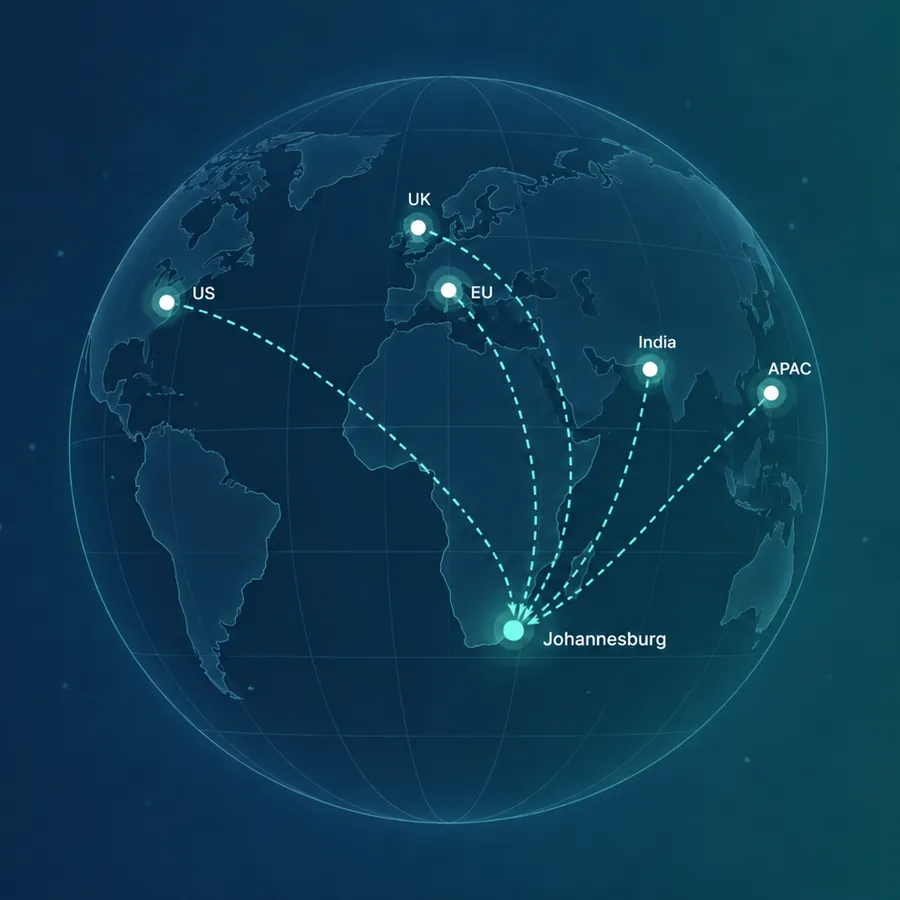
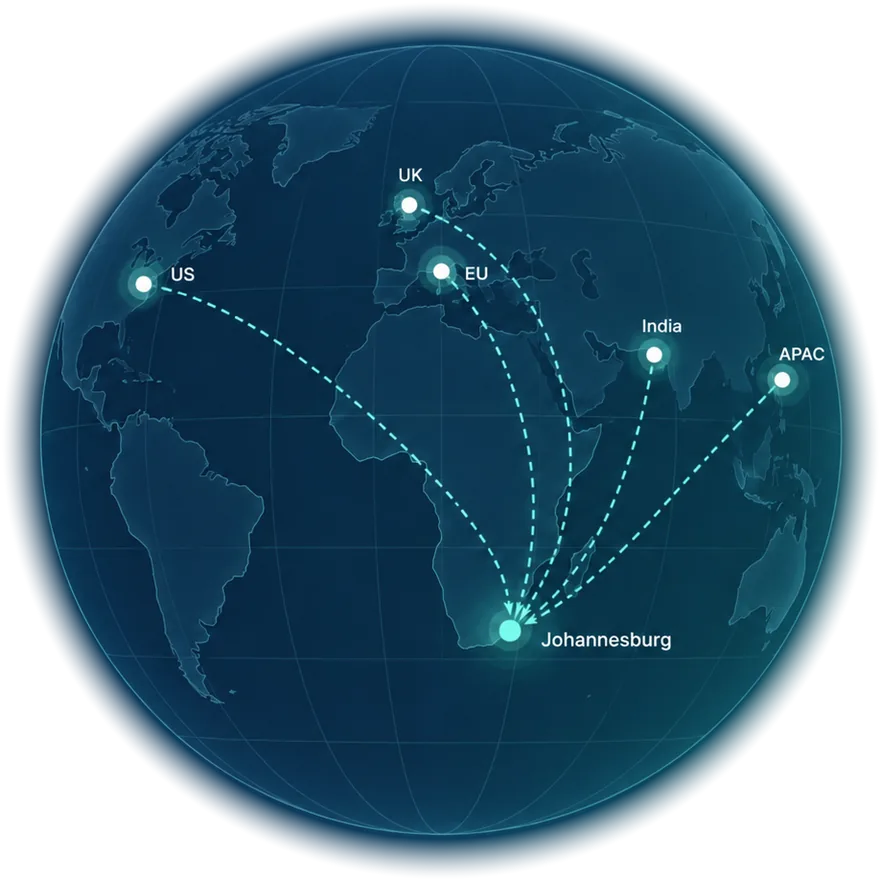
Round-cropped globe

diff --git a/styles.css b/styles.css
@@ -87,9 +87,7 @@ section.tight { padding: 3rem 0; }
 .markets span + span::before { content: "·"; margin-right: 1.2rem; color: var(--line); }
 .route { width: 100%; height: auto; }
 .globe { display: block; width: 100%; max-width: 520px; margin: 0 auto; }
-.globe img { width: 100%; height: auto; border-radius: 50%;
-  -webkit-mask-image: radial-gradient(circle at center, #000 62%, rgba(0,0,0,.85) 72%, transparent 88%);
-  mask-image: radial-gradient(circle at center, #000 62%, rgba(0,0,0,.85) 72%, transparent 88%); }
+.globe img { width: 100%; height: auto; }
 
 /* Cards / grids */
 .grid { display: grid; gap: 1.4rem; }

diff --git a/_build/pages/index.html b/_build/pages/index.html
@@ -15,7 +15,7 @@ DESC: IXCIO acts as your South African licence holder and authorised representat
     <div>
       <picture class="globe">
         <source srcset="/img/hero-globe.webp" type="image/webp">
-        <img src="/img/hero-globe.jpg" width="900" height="900" alt="Routes from the US, UK, EU, India and APAC converging on Johannesburg" loading="eager" fetchpriority="high">
+        <img src="/img/hero-globe.png" width="880" height="880" alt="Routes from the US, UK, EU, India and APAC converging on Johannesburg" loading="eager" fetchpriority="high">
       </picture>
     </div>
   </div>

diff --git a/index.html b/index.html
@@ -46,7 +46,7 @@
     <div>
       <picture class="globe">
         <source srcset="/img/hero-globe.webp" type="image/webp">
-        <img src="/img/hero-globe.jpg" width="900" height="900" alt="Routes from the US, UK, EU, India and APAC converging on Johannesburg" loading="eager" fetchpriority="high">
+        <img src="/img/hero-globe.png" width="880" height="880" alt="Routes from the US, UK, EU, India and APAC converging on Johannesburg" loading="eager" fetchpriority="high">
       </picture>
     </div>
   </div>
